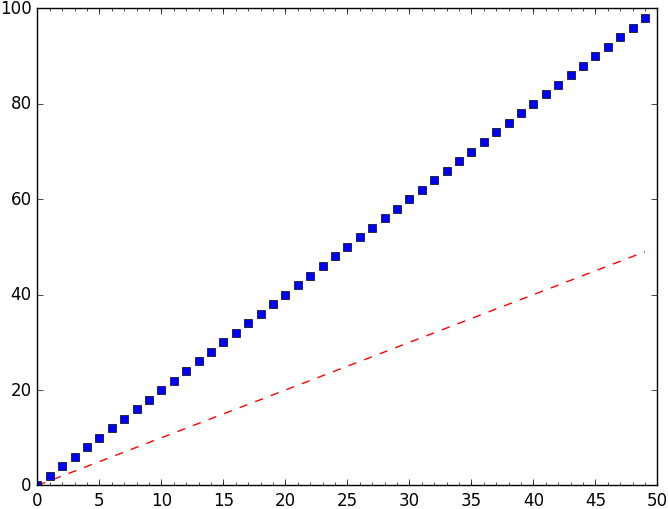
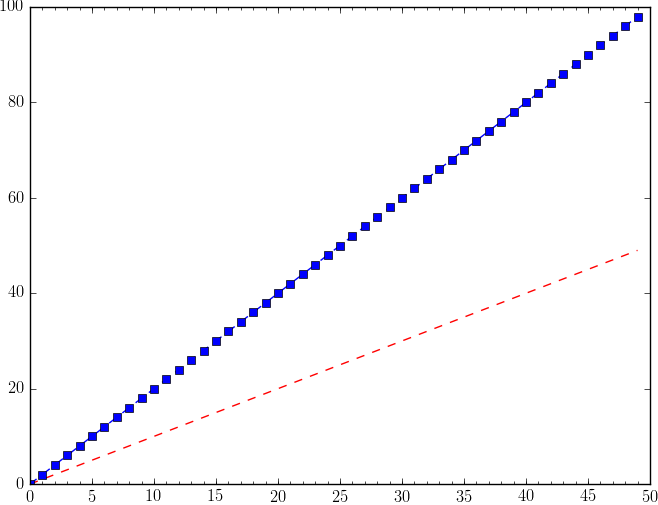
update matplotlib.md: figures

diff --git a/codes/matplotlib_case.py b/codes/matplotlib_case.py
@@ -5,18 +5,20 @@ from matplotlib import rc
 rc('font',**{'family':'sans-serif','sans-serif':['Helvetica']})
 rc('text', usetex=True)
 
-# evenly sampled time at 200ms intervals
+# evenly sampled time at 1s intervals
 t = np.arange(0., 50., 1)
 
-# red dashes, blue squares and green triangles
 fig = plt.figure()
 ax = plt.subplot(111)
 
-plt.plot(t, t, 'r--', t, 2*t, 'bs')
+# red dashes, blue squares
+plt.plot(t, t, 'r--', t, 2*t, '--bs')
 
+# set ticker's step
 ax.xaxis.set_major_locator(ticker.MultipleLocator(5.00))
 ax.xaxis.set_minor_locator(ticker.MultipleLocator(1.00))
 
+# set font of label and ticks
 font = {'family': 'serif',
         'color':  'black',
         'size': 22}
@@ -24,10 +26,10 @@ plt.xlabel(r'$x$', fontdict=font)
 plt.ylabel(r'$y$', fontdict=font)
 ax.tick_params(labelsize=18, colors='black',left='on')
 
+# set legend and it's font
 plt.legend(loc = 'upper left',
-        labels = [r'$y=x$',r'$y=2\cdotx'],
+        labels = [r'$y=x$',r'$y=2 \cdot x$'],
         fancybox = True,
-        shadow = True,
         fontsize = 16)
 
 ax.set_axisbelow(True)

diff --git a/_posts/2017-10-19-matplotlib.md b/_posts/2017-10-19-matplotlib.md
@@ -7,6 +7,8 @@ category: research
 tag: matplotlib
 ---
 
+> You can download the [code](https://mrdongdonglin.github.io/codes/matplotlib_case.py) of this case.
+
 [Matplotlib](http://matplotlib.org/) is a Python plot library which produces publication quality figures. This blog will introduce that how to plot and improve a figure.
 
 # Installation
@@ -17,7 +19,7 @@ python -mpip install -U matplotlib
 ```
 I suggest that you install [Anaconda](https://www.anaconda.com/download/), `Anaconda` is a welcome Python data science platform, it includes many Python packages like `Numpy`, `SciPy` and `Matplotlib`.
 
-The following part of this blog will show you how to plot and improve a figure with `Matplotlib` step by step. You can download the [code](https://mrdongdonglin.github.io/codes/matplotlib_case.py) of this case.
+The following parts of this blog will show you how to plot and improve a figure with `Matplotlib` step by step.
 
 # A simple case
 Here is a simple case from the [gallery](http://matplotlib.org/gallery/index.html) of `Matplotlib`
@@ -32,7 +34,7 @@ t = np.arange(0., 50., 1)
 plt.plot(t, t, 'r--', t, 2*t, 'bs')
 plt.show()
 ```
-In my github repository [Learn Python](https://github.com/MrDongdongLin/Learn-Python), the procedure is described that `how to remove the axes and the white margin of an image object that ploted by pyplot?`, just use `fig = plt.figure()` to produce a figure, then save it with
+In my github repository [Learn Python](https://github.com/MrDongdongLin/Learn-Python), the procedure is described that `how to remove the axes and the white margin of an image object that ploted by pyplot?`. Just use `fig = plt.figure()` to produce a figure, then save it with
 ```python
 fig.savefig("pyplot.png", bbox_inches='tight', pad_inches = 0)
 ```
@@ -44,7 +46,7 @@ This figure is well enough to put into a paper or other normal publications, bec
 
 # Improvement
 ## Axis ticks
-Notice that the arrange of `t` is \\([0,50]\\), and the spacing between values is `1`, but the ticks on the figure is `10`. A more appropriate axis ticks can be set with
+Notice that the arrange of `t` is \\([0,50]\\), and the spacing between values is `1`, but the tick on the figure is `10`. A more appropriate axis ticks can be set with
 ```python
 ax.xaxis.set_major_locator(ticker.MultipleLocator(5.00))
 ax.xaxis.set_minor_locator(ticker.MultipleLocator(1.00))
@@ -57,8 +59,8 @@ Now we have the following figure.
 
 ![matplotlib_2](https://mrdongdonglin.github.io/images/pyplot/matplotlib_2.png)
 
-## TeX used format
-Default font of the figure is not fit with `TeX` font, if the text needs `TeX` font, the following command should be included.
+## \\(TeX\\) used format
+Default font of the figure is not fit with \\(TeX\\) font, if the text needs \\(TeX\\) font, the following command should be included.
 ```python
 from matplotlib import rc
 rc('font',**{'family':'sans-serif','sans-serif':['Helvetica']})
@@ -70,7 +72,7 @@ For clarity, you'd better add `label` and `legend` and set the `font size` of `l
 font = {'family': 'serif',
         'color':  'black',
         'size': 22}
-plt.xlabel(r'$m$', fontdict=font)
+plt.xlabel(r'$x$', fontdict=font)
 plt.ylabel(r'$y$', fontdict=font)
 ax.tick_params(labelsize=18, colors='black',left='on')
 
@@ -78,7 +80,6 @@ ax.tick_params(labelsize=18, colors='black',left='on')
 plt.legend(loc = 'upper left',
         labels = [r'$y=x$',r'$y=2\cdotx'],
         fancybox = True,
-        shadow = True,
         fontsize = 16)
 ```
 Now we have a new figure.
@@ -91,15 +92,15 @@ Last but not least, a `grid` should be added to make the figure more accuracy,
 ax.set_axisbelow(True) # Set grid below the figure border when the grid's color is not black.
 plt.grid(which='both', linewidth=1, color='gray')
 ```
-The purpose that setting `kwargs` `linewidth` and `color` is to make a soft vision when you put it into a `pdf` file. If you use the default color `black`, when we zoom in the `pdf`, it will be like this
+The purpose that setting 'kwargs' `linewidth` and `color` is to make a soft vision when you put it into a `pdf` file. If you use the default color `black`, when you zoom in the `pdf`, it will be like this
 
 ![zoom-in](https://mrdongdonglin.github.io/images/pyplot/matplotlib_clear.png)
 
-If we zoom out, guess what happend?
+When you zoom out, guess what happend?
 
 ![zoom-out](https://mrdongdonglin.github.io/images/pyplot/matplotlib_mohu.png)
 
-It looks sharply! So a soft vision is quite important, too.
+It looks sharply! A soft vision is quite important, too.
 
 The final version of our figure is
 
